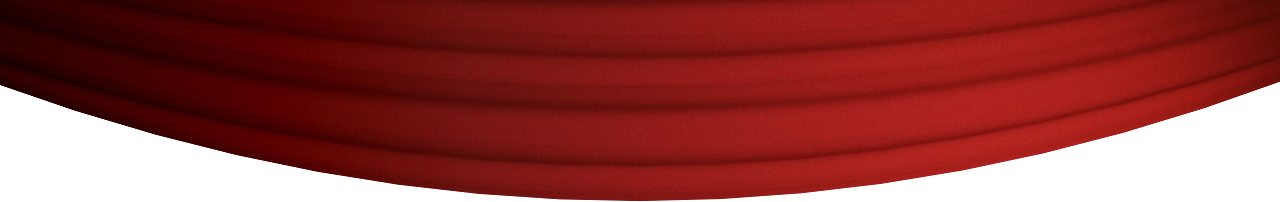
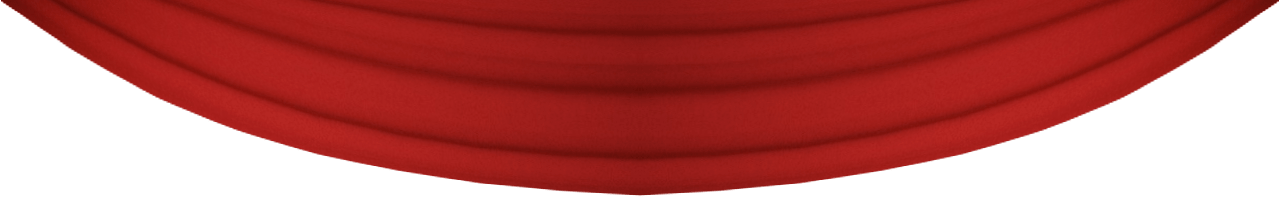
Optimize filesize of images for the theater screen.

diff --git a/public/cinema/css/style.css b/public/cinema/css/style.css
@@ -62,7 +62,7 @@ body {
 }
 
 .top-curtain {
-	background-image: url(../images/curtaintop2.png);
+	background-image: url(../images/curtaintop.png);
 	background-repeat: no-repeat;
 	background-size: 100% 100%;
 	background-position: top;
